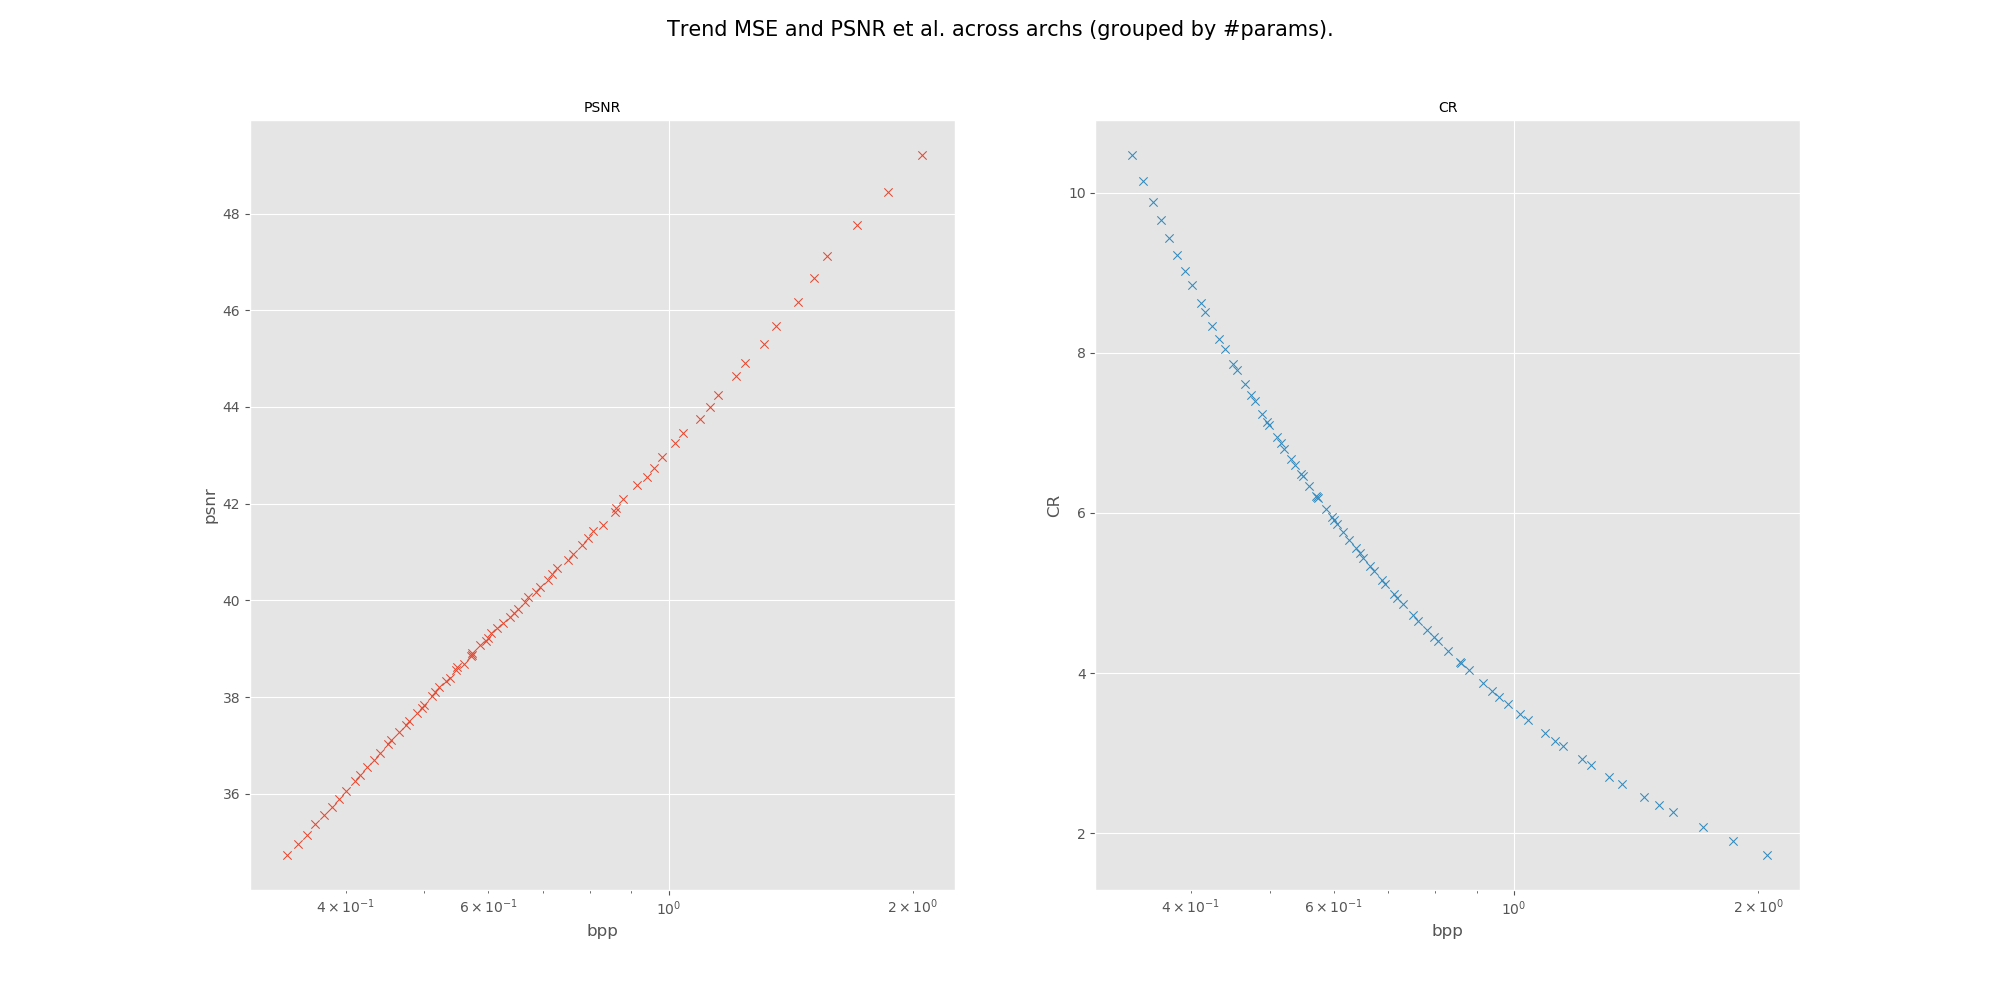
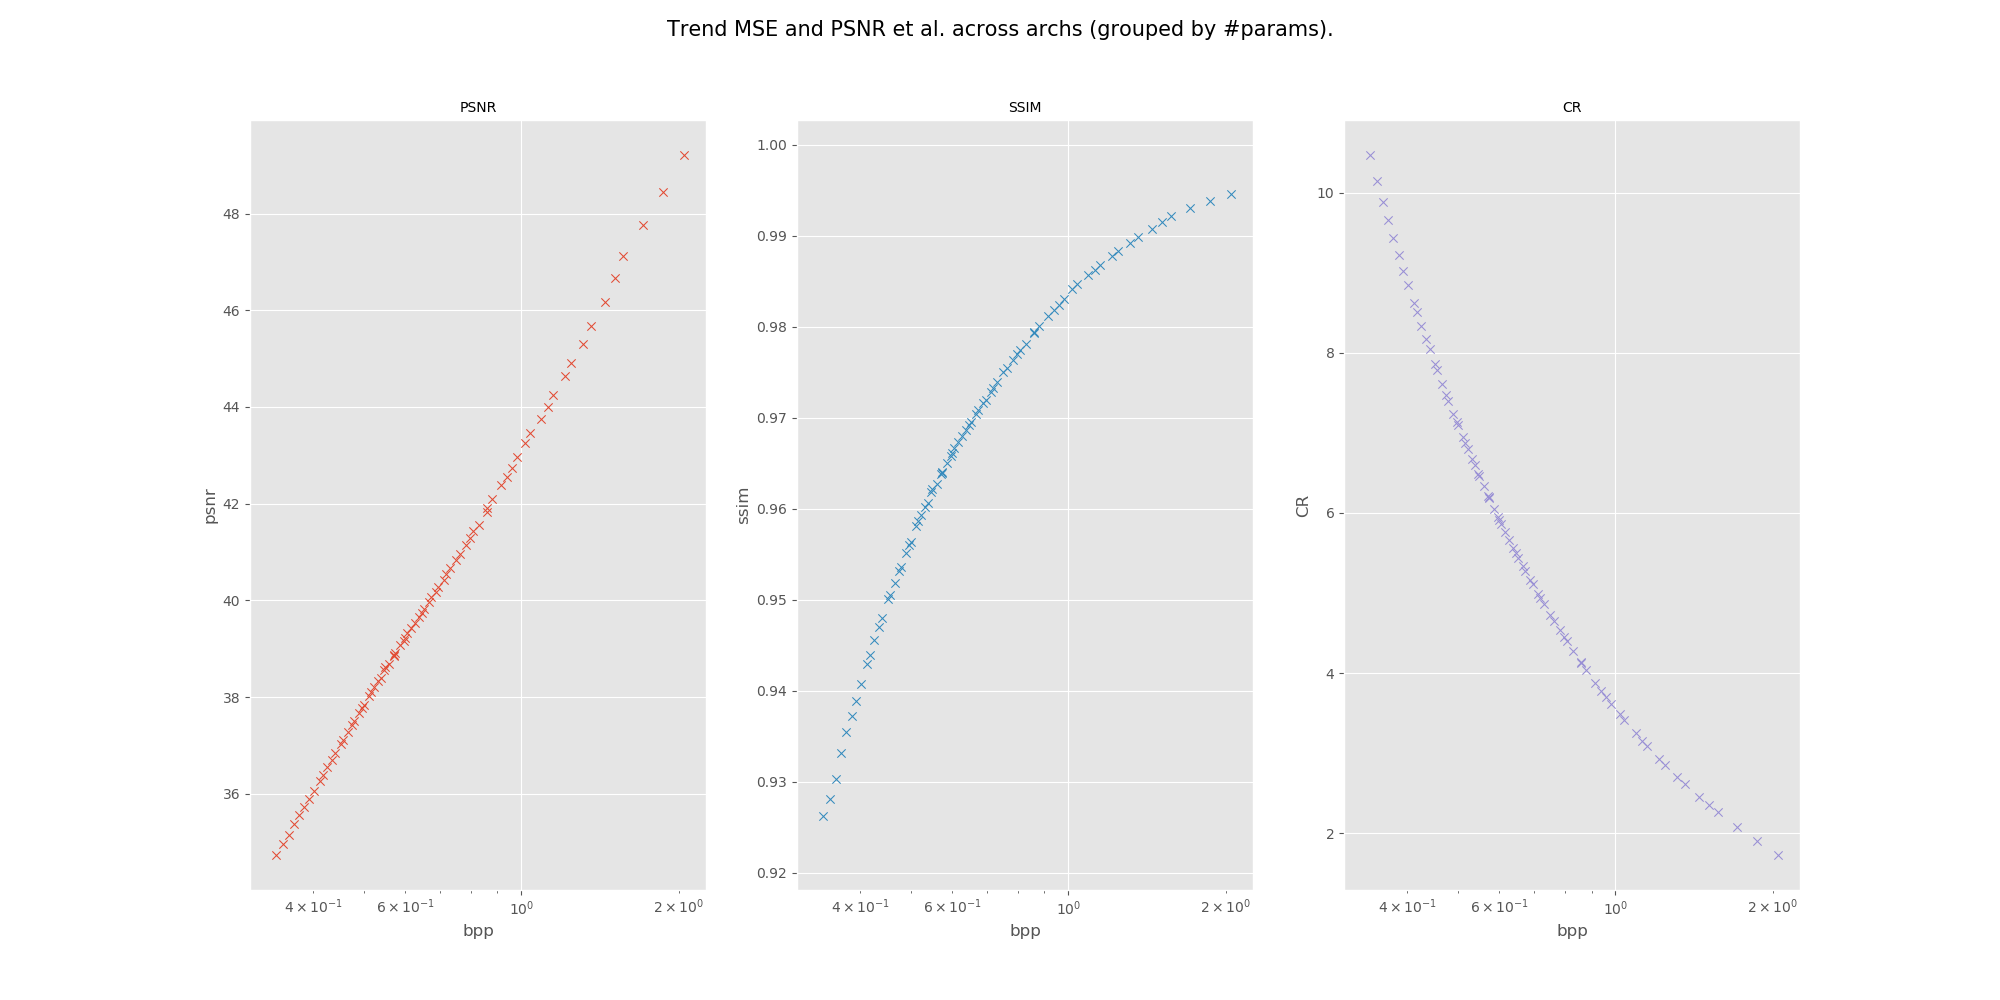
Started new cmd line tool impl.

diff --git a/dev-cmd-line-tools/compute-analysis-jpeg-compression/compute_analysis_jpeg_compression.py b/dev-cmd-line-tools/compute-analysis-jpeg-compression/compute_analysis_jpeg_compression.py
@@ -8,7 +8,7 @@ from utils.custom_argparser import get_cmd_line_opts
 from utils.functions import get_input_image, get_image_size_as_bits, show_image_characteristics, get_custom_logger
 from utils.works import calculate_several_jpeg_compression
 
-from utils.make_graphics import graphics_scatterplot
+from utils.make_graphics import graphics_scatterplot, compute_graph_for_image_by_metrices
 
 
 def main(opt = None):
@@ -44,11 +44,11 @@ def main(opt = None):
         result_df.to_csv('results.csv')
         pass
 
-    # get big picture
+    # Get big picture.
     with warnings.catch_warnings():
         warnings.simplefilter('ignore')
         try:
-            g = sns.PairGrid(result_df.drop([], axis = 1), diag_sharey=False)
+            g = sns.PairGrid(result_df.drop(['width', 'heigth'], axis = 1), diag_sharey=False)
             g.map_upper(sns.scatterplot, s=15) # 
             g.map_lower(sns.kdeplot)
             g.map_diag(sns.kdeplot, lw=2)
@@ -67,7 +67,7 @@ def main(opt = None):
     g.fig.suptitle('JPEG Compressions')
     g.fig.savefig('scatter.png')
 
-    grid_shape = "(1, 2)" # @param ["(1, 4)", "(4, 1)", "(2, 2)"]
+    grid_shape = "(1, 3)" # @param ["(1, 4)", "(4, 1)", "(2, 2)"]
     grid_shape = eval(grid_shape)
 
     fig, axes = graphics_scatterplot(
@@ -91,6 +91,20 @@ def main(opt = None):
     # plt.savefig(f"scatterplot_mse_psnr_et_al_vs_no_params_train_no_{train_no}.png")
     plt.savefig(f"file_size_bits_vs_others_scatterplot.png")
     # plt.show()
+
+    # Get summary plot about metrices vs bpp and image's size as bits.
+    x_axes = "bpp;file_size_bits".split(";")
+    y_axes = "psnr;ssim;CR".split(";")
+
+    fig, axes = compute_graph_for_image_by_metrices(
+        data_tuples = result_tuples,
+        x_axes = x_axes,
+        y_axes = y_axes,
+        subject = 'jpeg',
+        colors = sns.color_palette())
+    fig.suptitle(f'JPEG', fontsize=15)
+    plt.savefig('summary_plot_metrices_for_jpge_res.png')
+
 
     pass
 

diff --git a/dev-cmd-line-tools/compute-analysis-jpeg-compression/utils/make_graphics.py b/dev-cmd-line-tools/compute-analysis-jpeg-compression/utils/make_graphics.py
@@ -45,7 +45,7 @@ from skimage.metrics import mean_squared_error
 from sklearn.linear_model import LinearRegression
 from sklearn.preprocessing import PolynomialFeatures
 
-def compute_graph_image_psnr_CR(data_tuples, x_axes, y_axes, subject, colors = sns.color_palette()):   
+def compute_graph_for_image_by_metrices(data_tuples, x_axes, y_axes, subject, colors = sns.color_palette()):   
     # Prepare pairs of attributes to be represented
     # one against the other via scatter plot.
     # x_axes = "bpp;file_size_bits".split(";")
